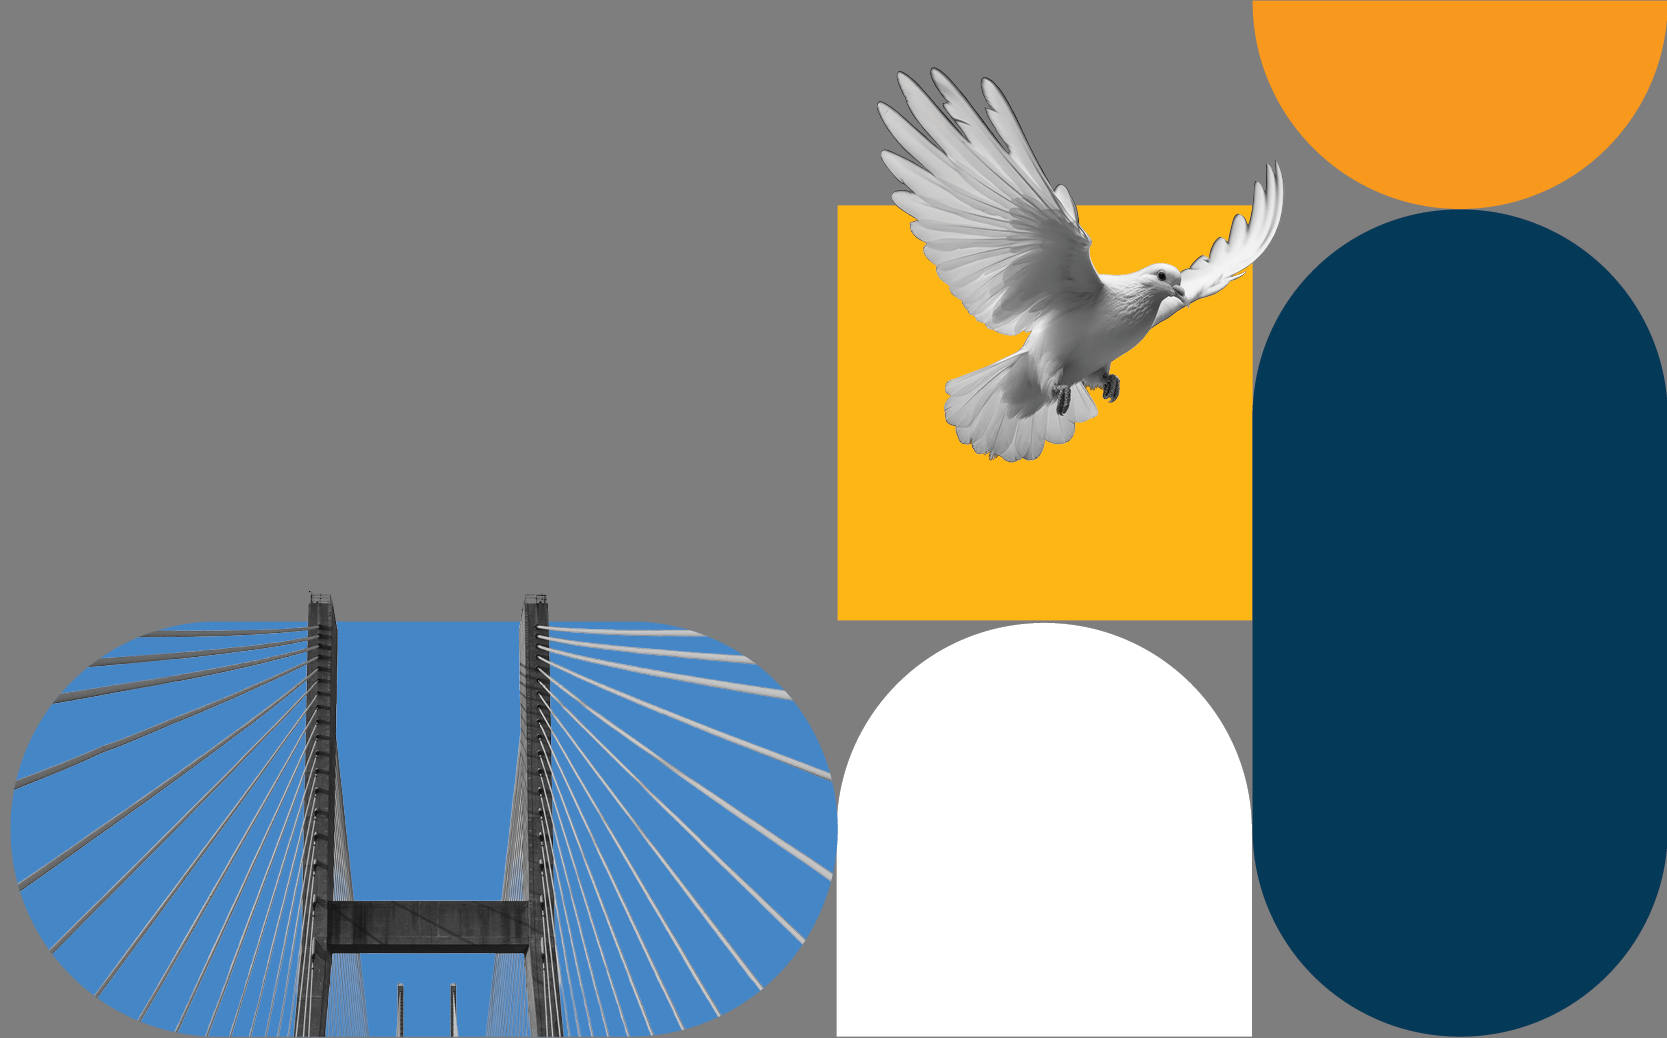
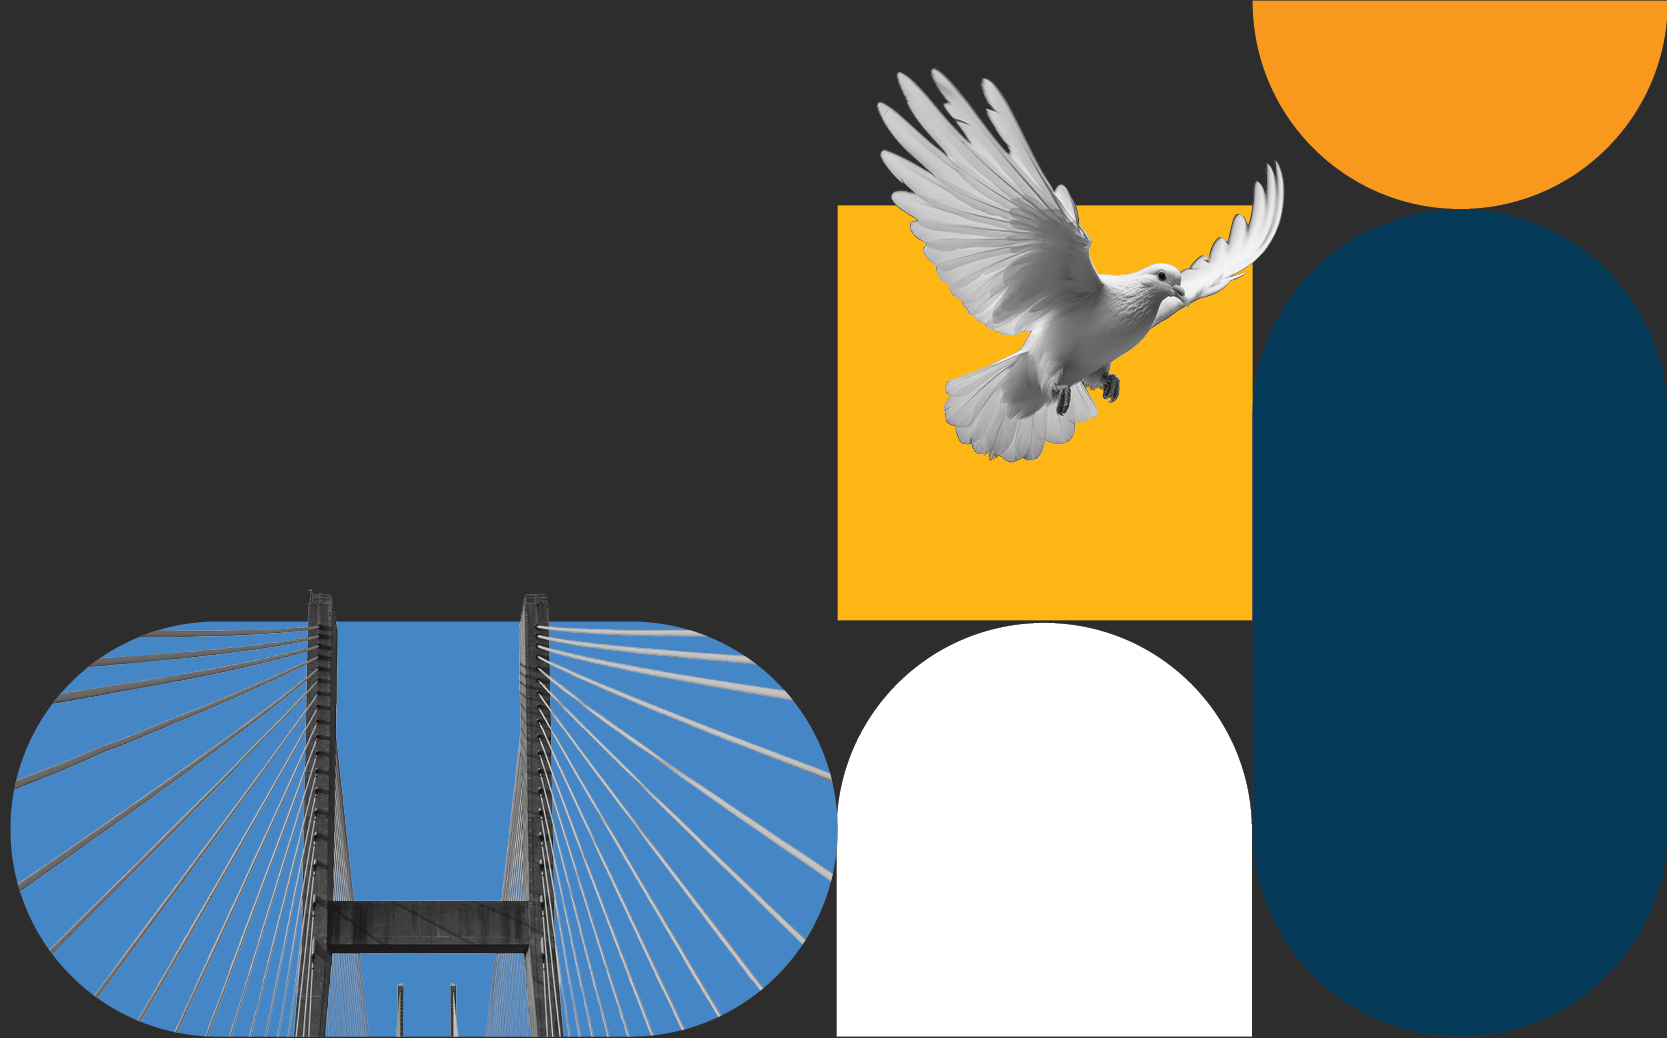
Darken bridge background, update sub colour, refresh bridge images
- Bridge background changed from #7d7d7d to #2d2d2d
- Bridge subtitle updated to light blue
- Both desktop and mobile bridge images replaced

diff --git a/css/thought-leadership.css b/css/thought-leadership.css
@@ -8,7 +8,7 @@
     --tl-yellow:       #ffb600;
     --tl-tangerine:    #ff9900;
     --tl-sticky-h:     28px;
-    --tl-bridge-grey:  #7d7d7d;
+    --tl-bridge-grey:  #2d2d2d;
 }
 
 /* ============================================================
@@ -217,7 +217,7 @@
 }
 
 .tl-bridge .tl-article-sub {
-    color: var(--color-dark-blue);
+    color: var(--color-light-blue);
     margin-bottom: 28px;
 }
 

diff --git a/thinking/brand-excitement.html b/thinking/brand-excitement.html
@@ -10,7 +10,7 @@
     <title>Beyond the brand police | Kelly Nicoll</title>
     <link rel="icon" type="image/svg+xml" href="../assets/icons/favicon.svg">
     <link rel="stylesheet" href="../css/styles.css?v=32">
-    <link rel="stylesheet" href="../css/thought-leadership.css?v=11">
+    <link rel="stylesheet" href="../css/thought-leadership.css?v=12">
 </head>
 <body>
 